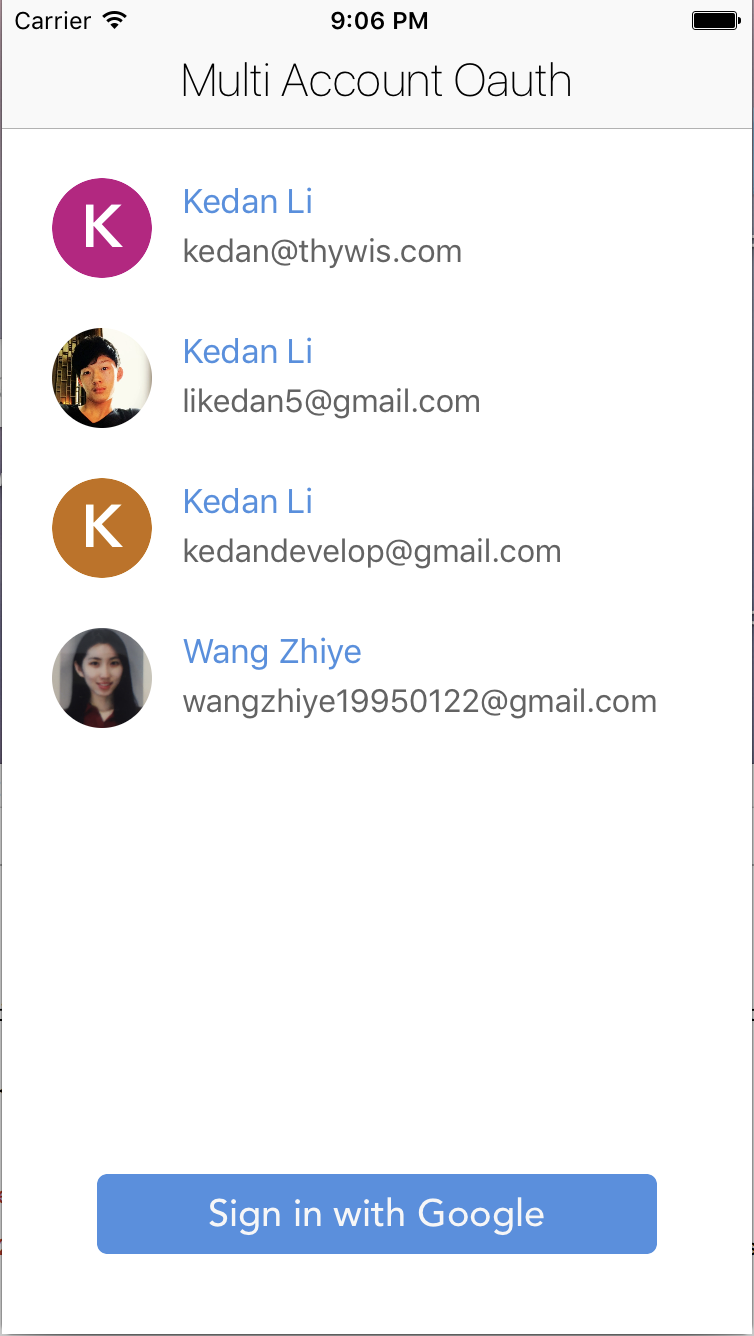
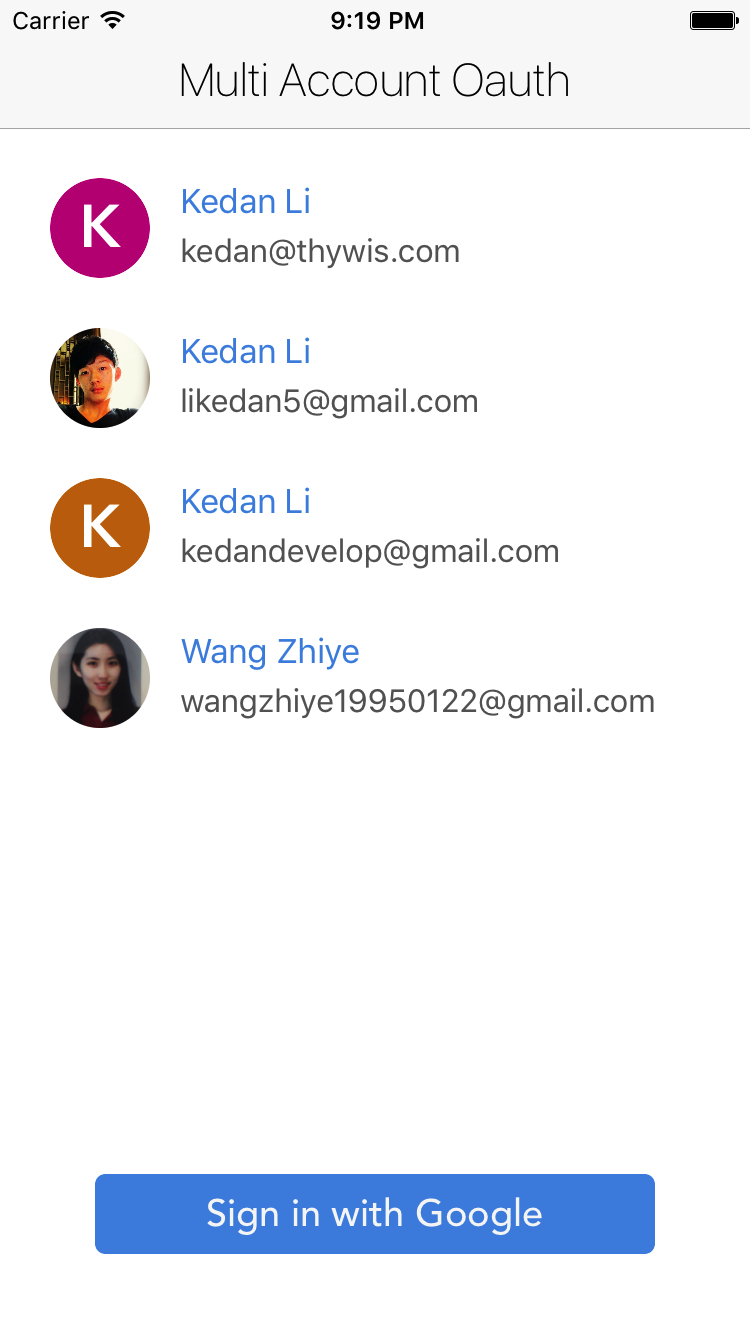
modify readme

diff --git a/README.md b/README.md
@@ -2,7 +2,16 @@
 
 MultiAccountOauth allows you to login to multiple Google accounts or any other OAuth service. 
 
-<img src="img/screenshot.png" width="754" height="1336"/>
+<img src="img/screenshot.png" width="375" height="667"/>
 
-While developing PickedMail - The personal AI Inbox, we need to support user login to multiple Google accounts simultaneously. However, Google iOS SDK only allow user to sign in to one account at a time. As a result, we developed a framework to allow user to sign and maintain connection status to multiple Google account. We open sourced this framework to help others who are struggling through the same problem 
+While developing [PickedMail - The personal AI Inbox](https://itunes.apple.com/us/app/pickedmail/id1244830423?mt=8), we need to support user login to multiple Google accounts simultaneously. However, Google iOS SDK only allows user to sign in to one account at a time. As a result, we developed a framework to allow us to sign in and maintain connection status to multiple Google accounts. This framework is open sourced to help others who struggling through the same problem.
+
+## Requirements
+* Swift 3.0+
+* Xcode 8.0+
+* iOS 9.0+, OSX 10.10+
+
+
+### Scopes
+https://developers.google.com/identity/protocols/googlescopes
 
